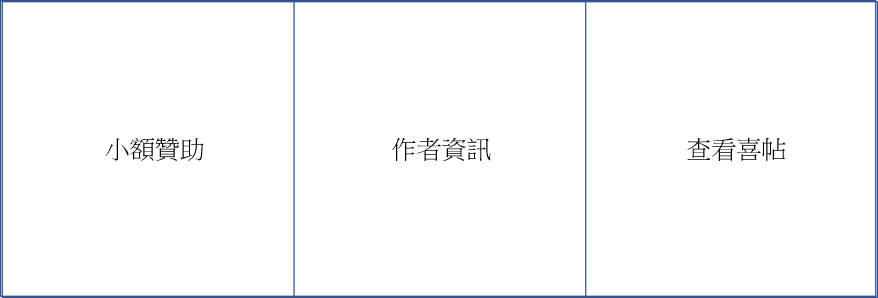
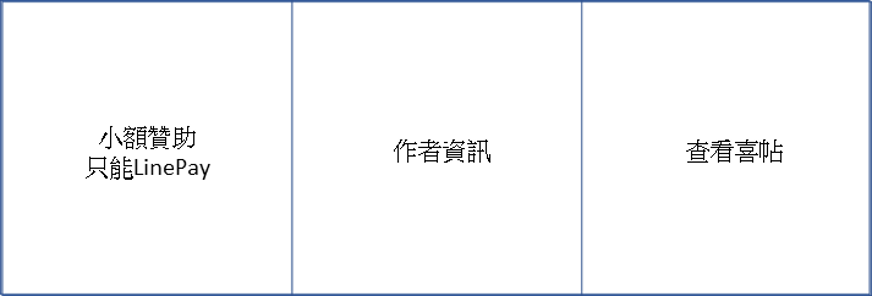
fix: ws conn action

diff --git a/index.js b/index.js
@@ -56,7 +56,7 @@ server.listen(PORT, () => {
 wss.on('connection', (ws) => {
   console.log('Client connected \n',);
   messages.forEach(e => {
-    client.send(JSON.stringify(e))
+    ws.send(JSON.stringify(e))
   })
   ws.on('close', () => {
     console.log('Client disconnected');
@@ -84,6 +84,7 @@ async function handleEvent(event) {
 
 function handlePostback(event) {
   const data = event.postback.data;
+  console.log(data.startsWith('action=send_invitation'))
 
   if (data.startsWith('action=send_invitation')) {
     return client.replyMessage(event.replyToken, {
@@ -92,15 +93,28 @@ function handlePostback(event) {
       previewImageUrl: constants.invitationUrl
     });
   }
+  if (data.startsWith('action=donate')) {
+    return client.replyMessage(event.replyToken, { type: 'text', text: '點擊以下連結開啟LinePay\nhttps://line.me/R/ch/1586237320/?forwardPath=/c2c/transfer&no=21470785060' })
+    // return client.replyMessage(event.replyToken, {
+    //   type: 'image',
+    //   originalContentUrl: constants.donateUrl,
+    //   previewImageUrl: constants.donateUrl
+    // });
+  }
   return Promise.resolve(null);
 }
 
 async function handleMessage(event) {
-  if (event.message.text == '謝謝誇獎!') return
+
   const userId = event.source.userId;
   const profile = await client.getProfile(userId);
   const displayName = profile.displayName;
   const message = event.message.text;
+  if(message==='請求聯絡資訊'){
+    const msg = 'Email: a31735@gmail.com\nLinkedin: https://www.linkedin.com/in/kuo-ting-han-3b045ab5/'
+    return client.replyMessage(event.replyToken, { type: 'text', text: msg });
+  }
+  console.log(event.message )
   messages.push({ displayName, message });
   const reply = { type: 'text', text: displayName + '收到!' };
   broadcastMessage({ displayName, message });

diff --git a/constant.js b/constant.js
@@ -1,9 +1,9 @@
 const invitationUrl = process.env?.invitationUrl
+const donateUrl = process.env?.donateUrl
 const lineConfig = {
   channelAccessToken: process.env?.channelAccessToken,
   channelSecret: process.env?.channelSecret
 };
-
 module.exports={
-  invitationUrl, lineConfig
+  invitationUrl, lineConfig, donateUrl
 }
